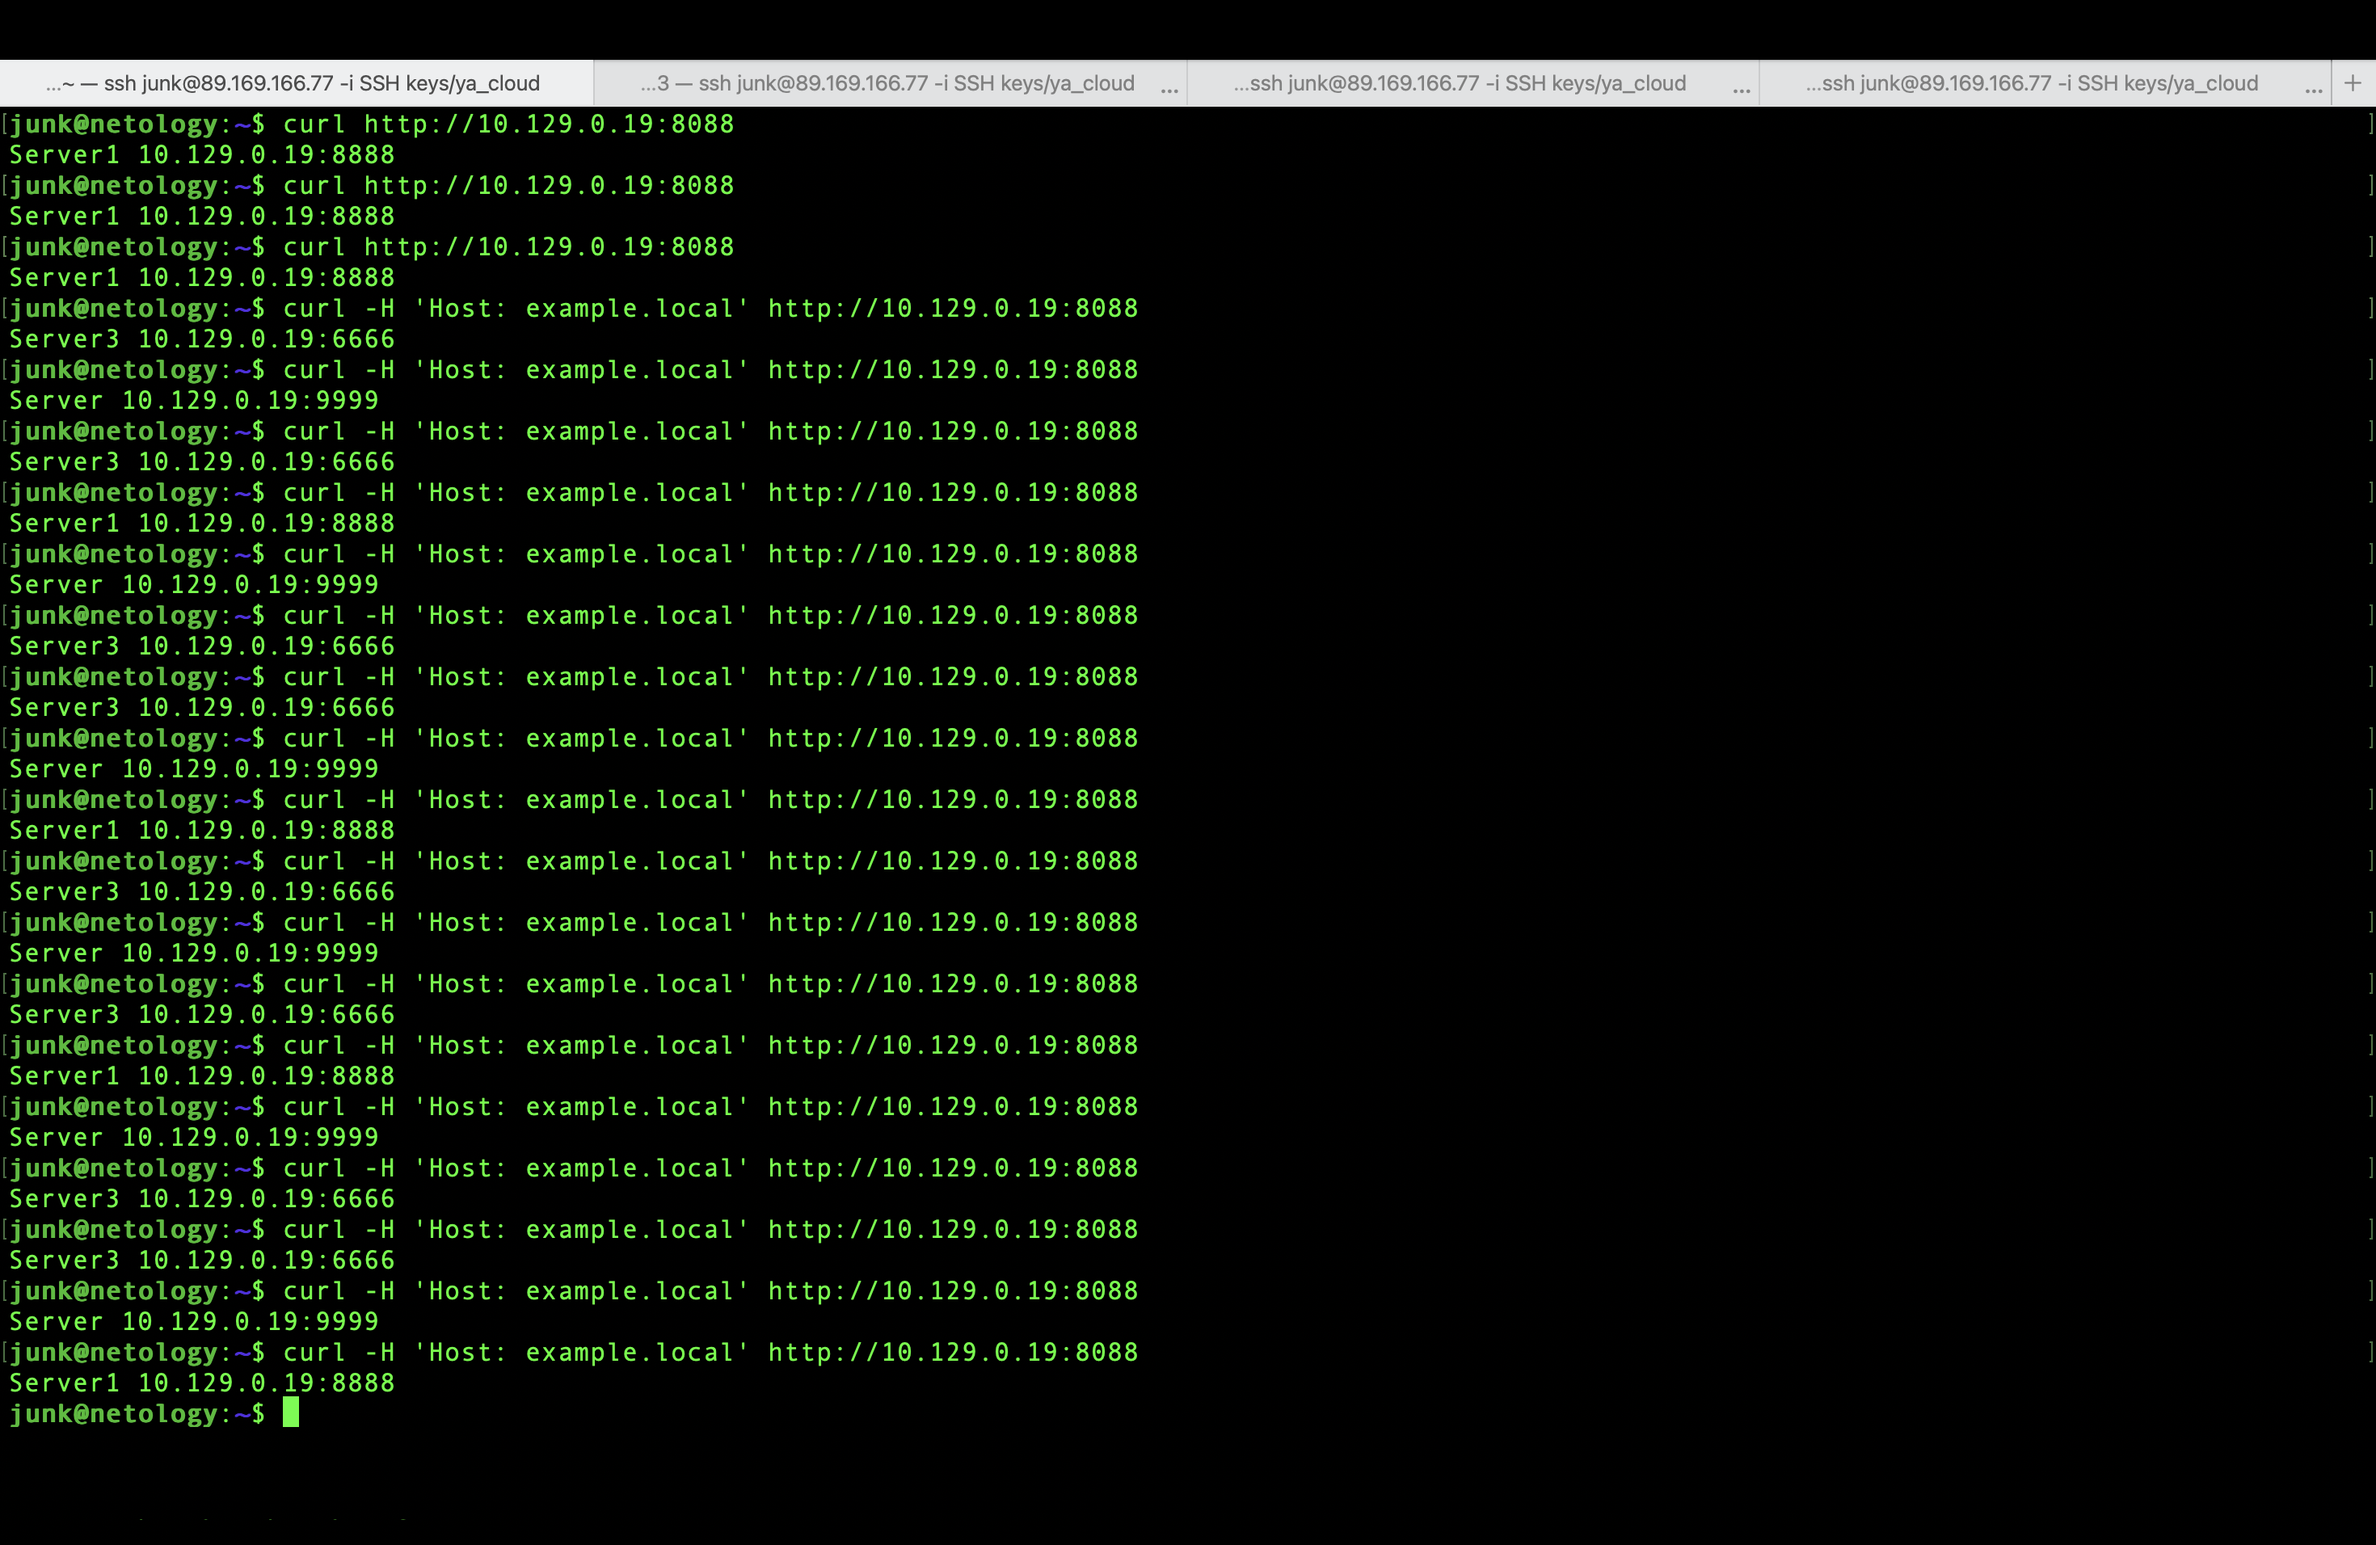
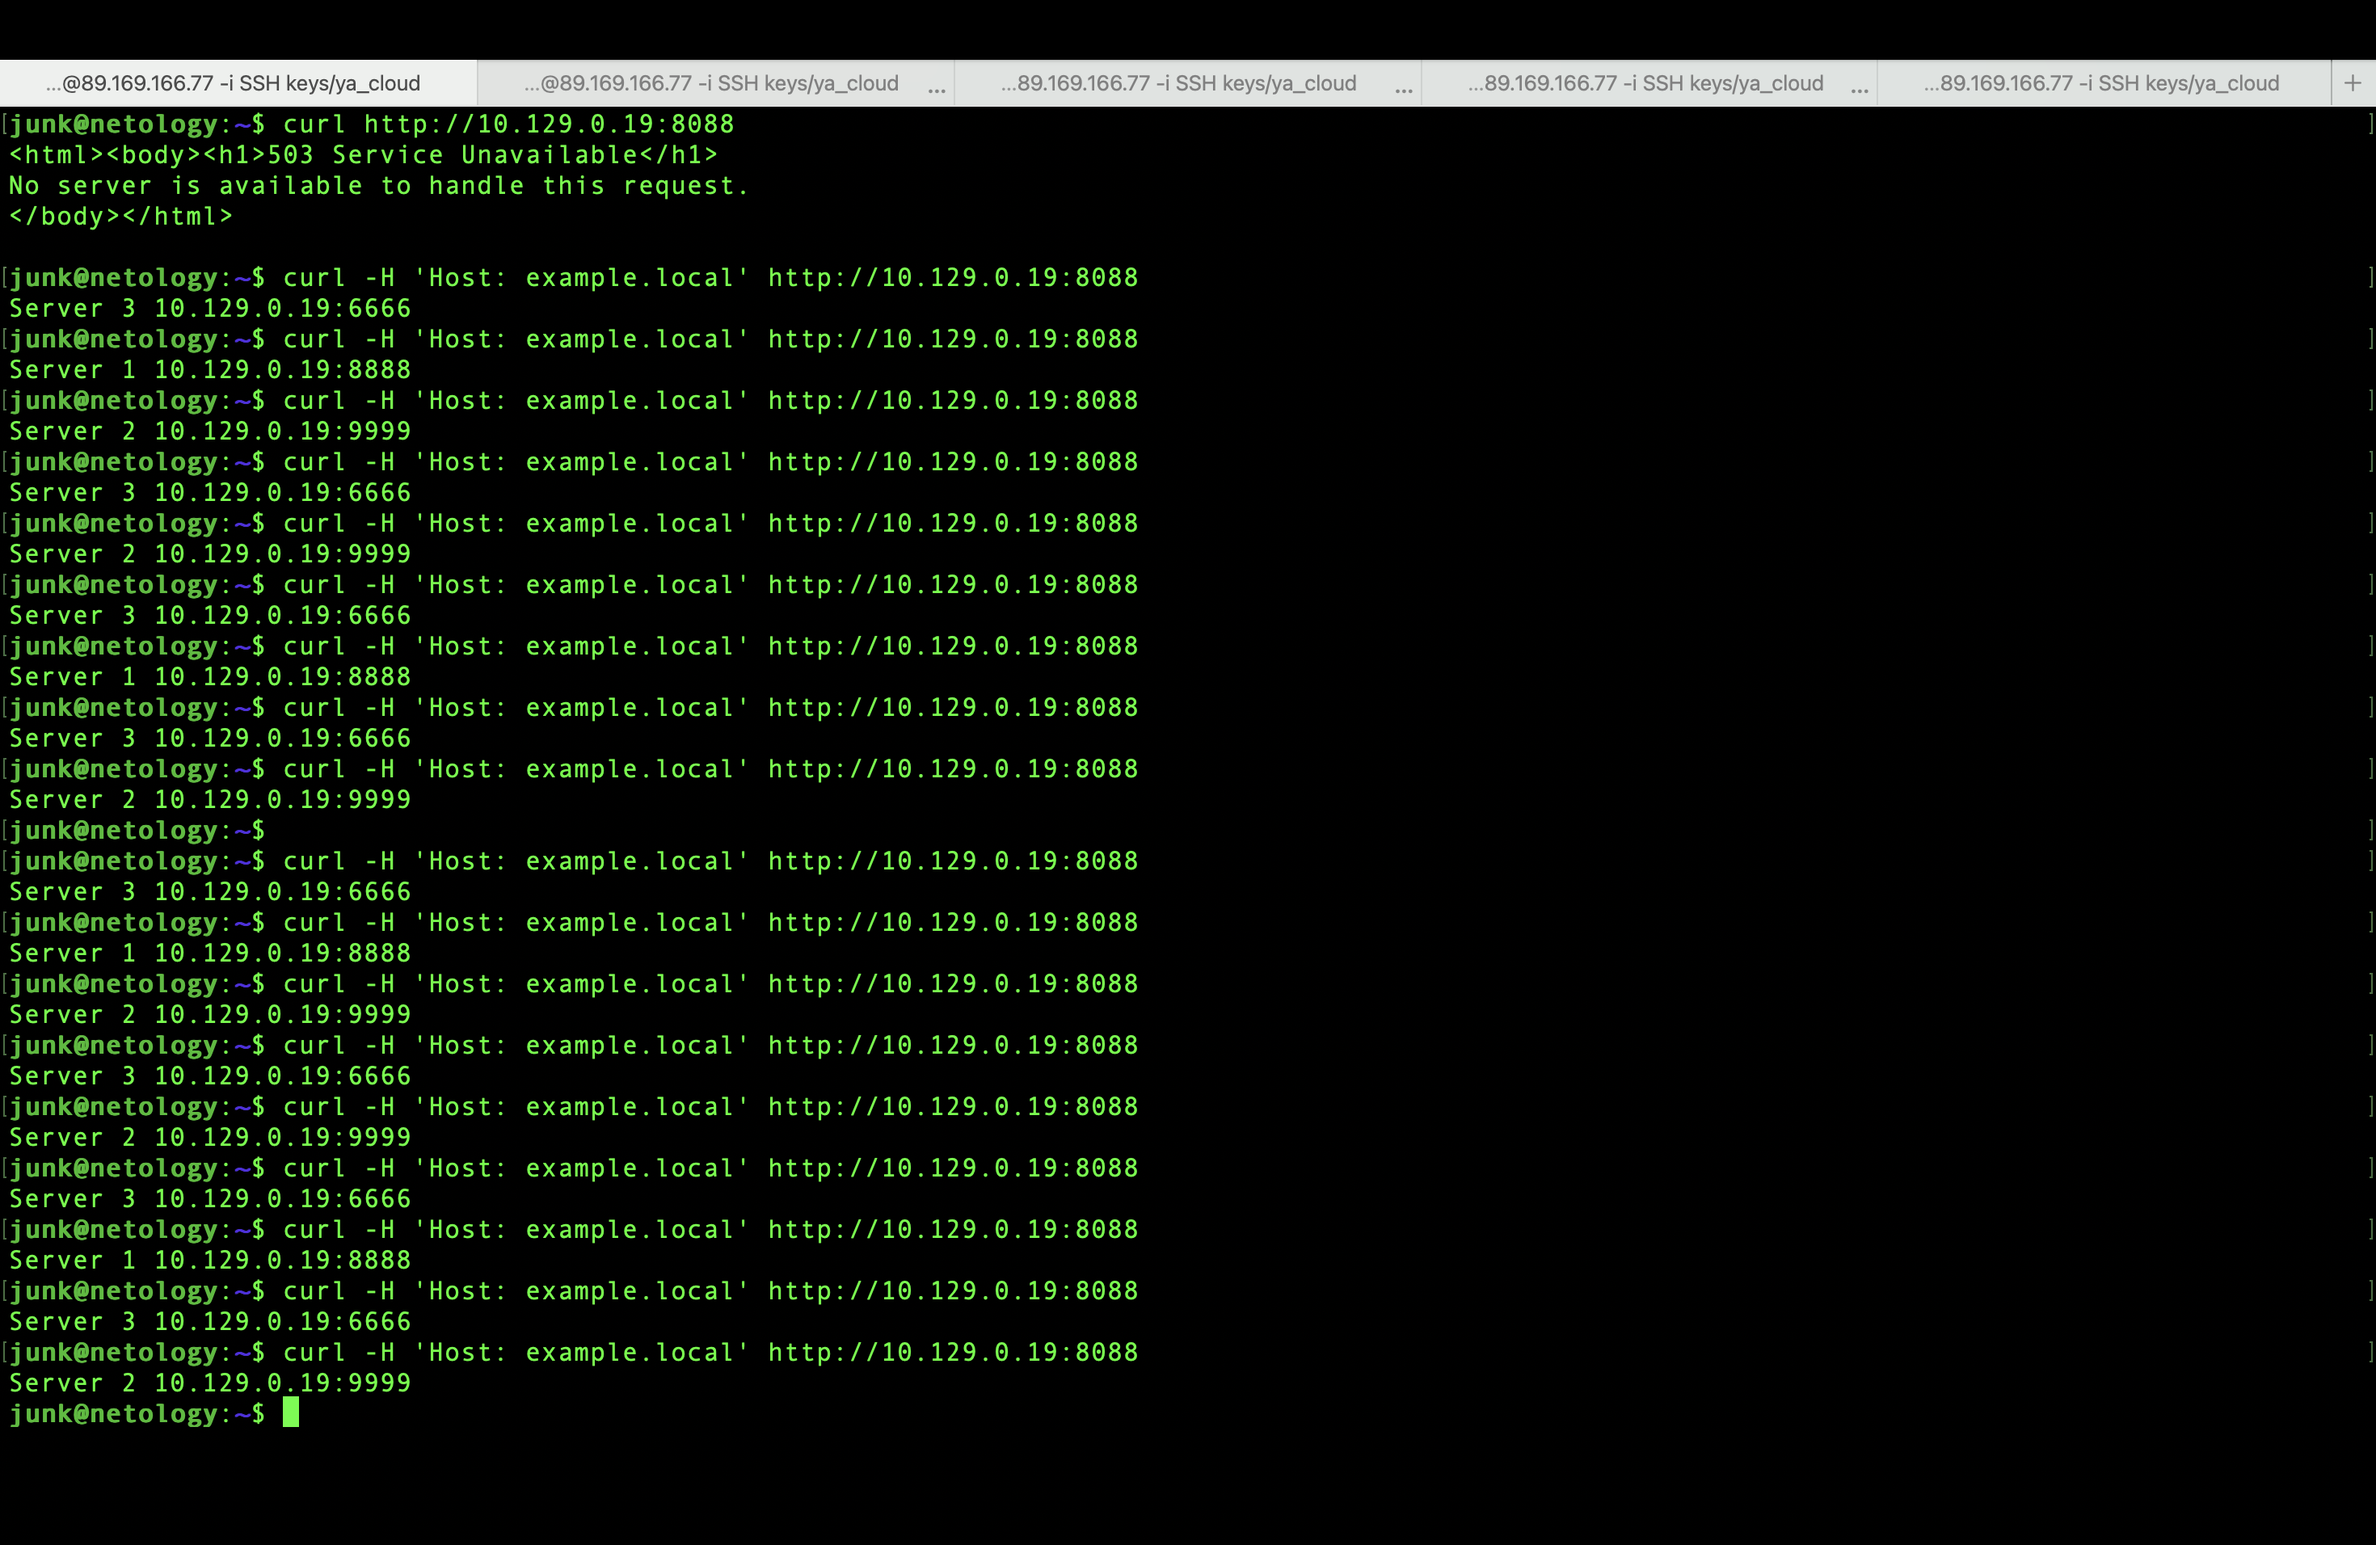
Исправлено задание 2 в соответствии с замечаниями

diff --git a/README.md b/README.md
@@ -1,6 +1,5 @@
 # Домашнее задание к занятию "Кластеризация и балансировка нагрузки" - Муравский Артем
 
-
 ---
 
 ### Задание 1
@@ -10,24 +9,7 @@
 - Настройте балансировку Round-robin на 4 уровне.
 - На проверку направьте конфигурационный файл haproxy, скриншоты, где видно перенаправление запросов на разные серверы при обращении к HAProxy.
 
-```conf
-listen stats  # веб-страница со статистикой
-        bind                    :888
-        mode                    http
-        stats                   enable
-        stats uri               /stats
-        stats refresh           5s
-        stats realm             Haproxy\ Statistics
-
-listen web_tcp
-
-        bind :1325
-
-        server s1 10.129.0.19:8888 check inter 3s
-        server s2 10.129.0.19:9999 check inter 3s
-```
-
-[haproxy.conf](/cfg/z1_haproxy.conf)
+[haproxy.conf](/cfg/z1_haproxy.cfg)
 
 ![roundrobin balancing](/img/screen1.png)
 
@@ -41,35 +23,7 @@ listen web_tcp
 - HAproxy должен балансировать только тот http-трафик, который адресован домену example.local
 - На проверку направьте конфигурационный файл haproxy, скриншоты, где видно перенаправление запросов на разные серверы при обращении к HAProxy c использованием домена example.local и без него.
 
-```conf
-listen stats  # веб-страница со статистикой
-        bind                    :888
-        mode                    http
-        stats                   enable
-        stats uri               /stats
-        stats refresh           5s
-        stats realm             Haproxy\ Statistics
-
-frontend example  # секция фронтенд
-        mode http
-        bind 10.129.0.19:8088
-        default_backend web_servers_no_balance
-        acl ACL_example.local hdr(host) -i example.local
-        use_backend web_servers if ACL_example.local
-
-backend web_servers_no_balance
-        mode http
-        server s1 10.129.0.19:8888
-
-backend web_servers    # секция бэкенд
-        mode http
-        balance roundrobin
-        option httpchk
-        http-check send meth GET uri /index.html
-        server s1 10.129.0.19:8888 check weight 2
-        server s2 10.129.0.19:9999 check weight 3
-        server s3 10.129.0.19:6666 check weight 4
-```
+[haproxy.conf](/cfg/z2_haproxy.cfg)
 
 ![examplecom balancing](/img/screen2.png)
 
@@ -135,6 +89,6 @@ backend web_servers    # секция бэкенд
 - Настройте фронтенд HAProxy так, чтобы в зависимости от запрашиваемого сайта example1.local или example2.local запросы перенаправлялись на разные бэкенды HAProxy
 - На проверку направьте конфигурационный файл HAProxy, скриншоты, демонстрирующие запросы к разным фронтендам и ответам от разных бэкендов.
 
-[haproxy.conf](/cfg/z4_haproxy.conf)
+[haproxy.conf](/cfg/z4_haproxy.cfg)
 
 ![two backend](/img/screen4.png)
